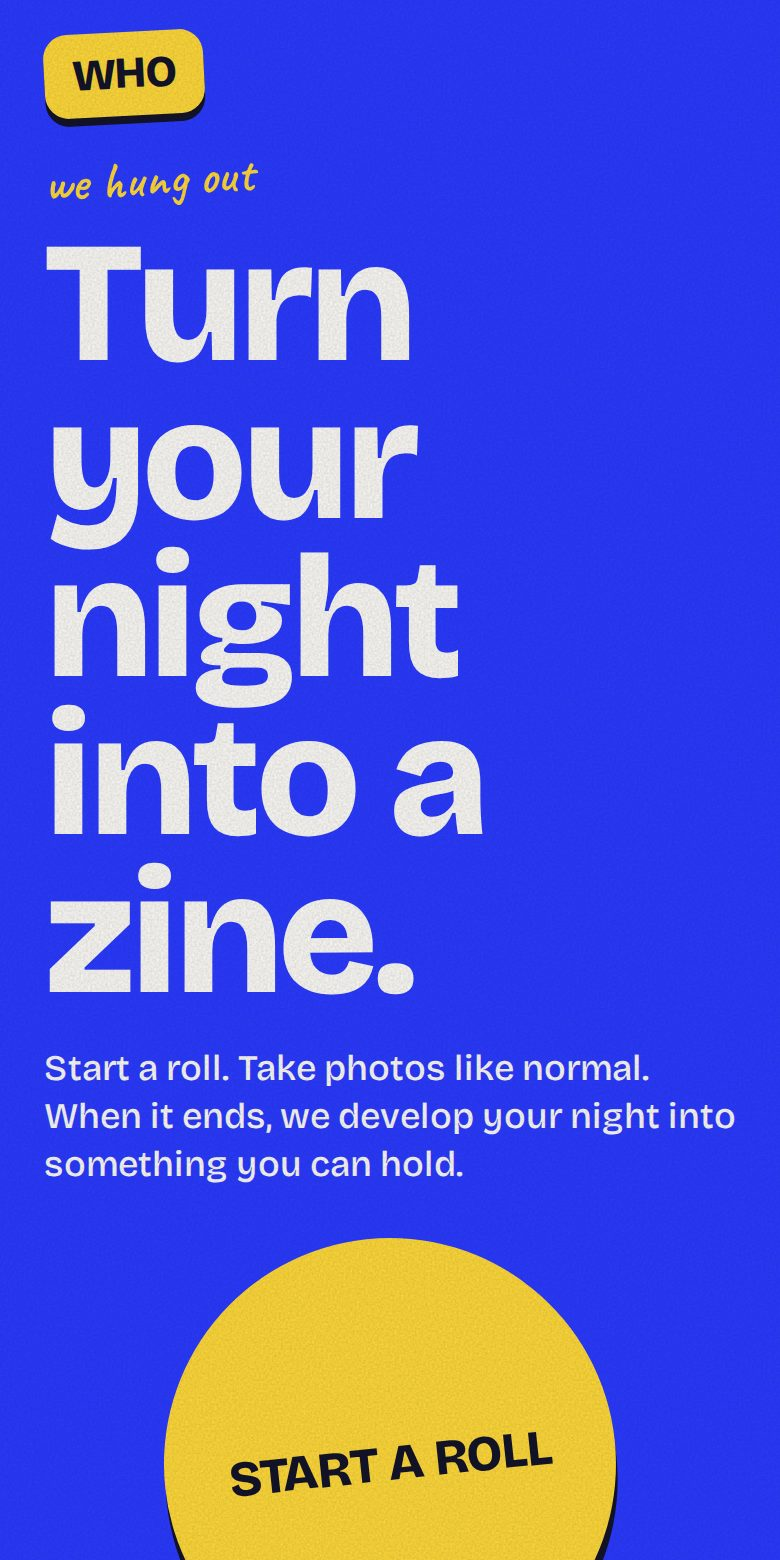
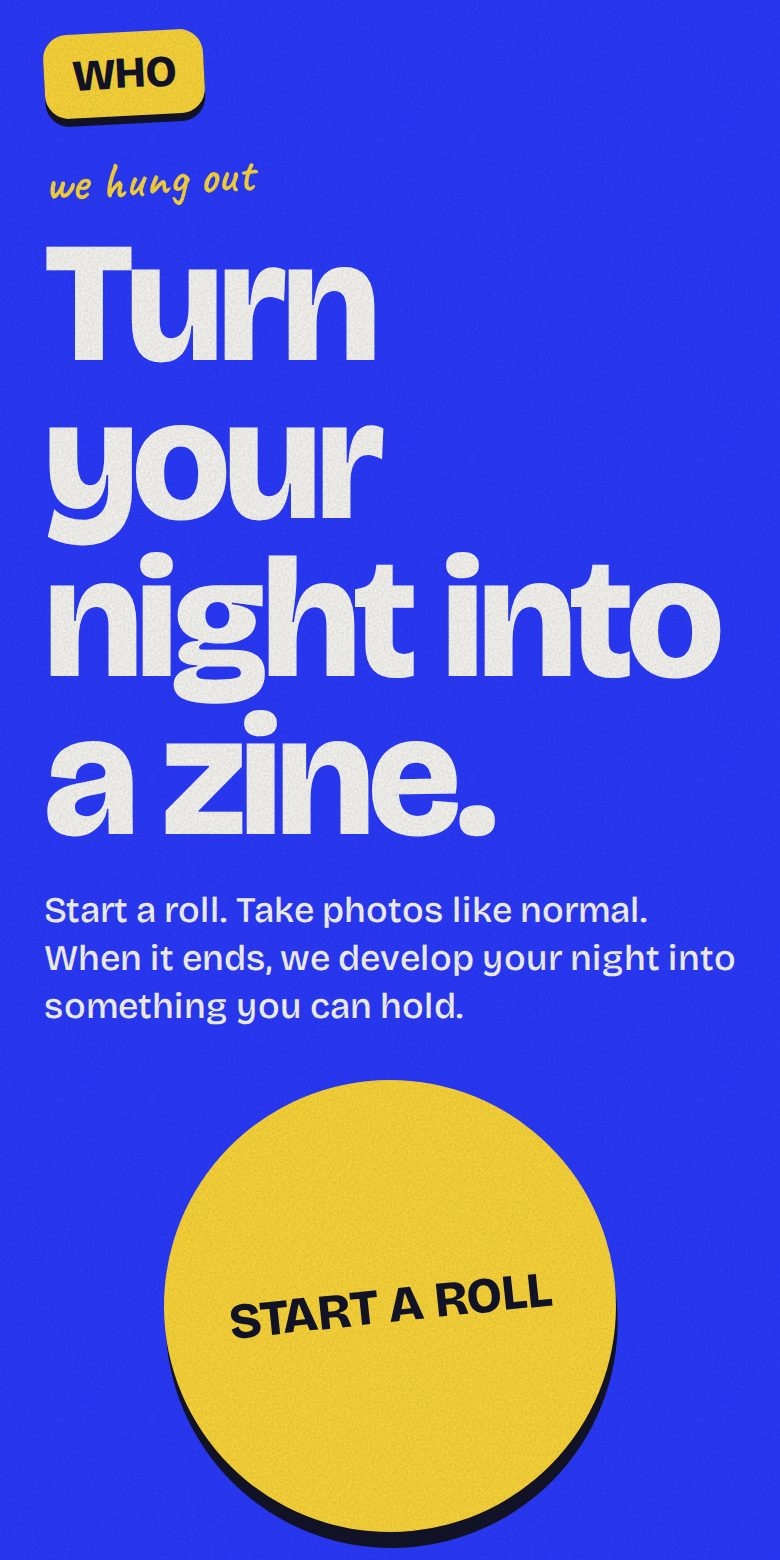
reversed some updates

Changed region(s): [[0.0615, 0.1538, 0.9538, 1.0]]

diff --git a/we-hung-out-zine-engine/web/index.html b/we-hung-out-zine-engine/web/index.html
@@ -19,10 +19,9 @@
 <meta property="og:image" content="og.png">
 <meta property="og:type" content="website">
 <meta name="twitter:card" content="summary_large_image">
-<link rel="preload" as="font" type="font/woff2" crossorigin href="fonts/bricolage-800.woff2">
+<link rel="preload" as="font" type="font/woff2" crossorigin href="fonts/bricolage-var.woff2">
 <style>
-@font-face{font-family:"Bricolage Grotesque";font-style:normal;font-weight:500;font-display:swap;src:url(fonts/bricolage-500.woff2) format("woff2")}
-@font-face{font-family:"Bricolage Grotesque";font-style:normal;font-weight:800;font-display:swap;src:url(fonts/bricolage-800.woff2) format("woff2")}
+@font-face{font-family:"Bricolage Grotesque";font-style:normal;font-weight:200 800;font-display:swap;src:url(fonts/bricolage-var.woff2) format("woff2")}
 @font-face{font-family:"Caveat";font-style:normal;font-weight:600;font-display:swap;src:url(fonts/caveat-600.woff2) format("woff2")}
 :root{
   --flash-blue:#2b3bff; --flash-yellow:#ffd93b; --print-white:#fbfaf6;
@@ -153,6 +152,8 @@ input[type=range]{width:100%;accent-color:var(--flash-yellow);margin:8px 0 0}
 .night span{display:block;font-size:16px;margin-top:2px}
 .night em{font-style:normal;font-family:var(--hand);font-size:22px;color:var(--flash-blue)}
 .credit a{color:inherit}
+.credit .legal{margin-top:16px;font-family:var(--display);font-weight:500;font-size:13px;letter-spacing:.02em}
+.credit .legal a{display:inline-block;padding:6px 14px;text-decoration:underline;text-underline-offset:3px}
 .msg{min-height:22px;text-align:center;font-size:15px;margin:10px 0 0}
 .msg a{color:var(--flash-yellow)}
 </style>
@@ -162,9 +163,9 @@ input[type=range]{width:100%;accent-color:var(--flash-yellow);margin:8px 0 0}
 <main id="app" aria-live="polite">
 <div class="brand">we hung out</div><h1 class="big">Turn your night into a zine.</h1>
 <p>Start a roll. Take photos like normal. When it ends, we develop your night into something you can hold.</p>
-<p><a href="about.html" style="color:inherit">Read the overview</a> &middot; <a href="privacy.html" style="color:inherit">Privacy</a></p>
+<p style="position:absolute;width:1px;height:1px;overflow:hidden;clip:rect(0 0 0 0);white-space:nowrap">Overview for people and AI tools: <a href="about.html">about.html</a>. Privacy: <a href="privacy.html">privacy.html</a>.</p>
 </main>
-<footer class="credit">made by Riann &middot; <a href="privacy.html" target="_blank" rel="noopener">Privacy</a> &middot; <a href="about.html" target="_blank" rel="noopener">About</a></footer>
+<footer class="credit">made by Riann<div class="legal"><a href="privacy.html" target="_blank" rel="noopener">Privacy</a></div></footer>
 <script>
 (function(){
   var app=document.getElementById('app');
@@ -304,7 +305,7 @@ input[type=range]{width:100%;accent-color:var(--flash-yellow);margin:8px 0 0}
     '<div class="spacer"></div><button class="btn shutter" id="go" style="width:min(58vw,230px);font-size:25px">START A ROLL</button>'+
     '<div style="height:22px"></div><button class="btn alt" id="quick" style="align-self:center">Make a zine now</button>'+
     '<p class="tiny" style="text-align:center;max-width:none">Any photos, any time. No roll needed.</p><div class="spacer"></div>';
-    document.getElementById('go').onclick=function(){S.mode='roll';S.editing=false;S.phase='start';render();};
+    document.getElementById('go').onclick=function(){S.mode='roll';S.editing=false;S.phase='setup';render();};
     document.getElementById('quick').onclick=function(){S.mode='quick';S.name='My zine';S.photos=[];S.seen={};S.sel=[];S.design=null;S.err=null;S.rejected=[];S.start=0;S.end=0;idbClear();S.phase='quick';save();render();};
   }
 
@@ -319,7 +320,7 @@ input[type=range]{width:100%;accent-color:var(--flash-yellow);margin:8px 0 0}
     '<div><label for="en">Ends</label><input type="time" id="en" value="'+hhmm(en)+'"></div></div>'+
     '<p class="tiny">Only photos taken between these two times are kept.</p><div class="spacer"></div>'+
     navBar(ed?'Back':'Back',ed?'Save':'Start roll');
-    document.getElementById('nb').onclick=function(){S.phase=ed?'roll':'start';render();};
+    document.getElementById('nb').onclick=function(){S.phase=ed?'roll':'home';render();};
     document.getElementById('nn').onclick=function(){
       var dv=(document.getElementById('dt').value||ymd(new Date())).split('-');
       var t=function(id){var v=document.getElementById(id).value.split(':');return new Date(+dv[0],+dv[1]-1,+dv[2],+v[0],+v[1],0,0).getTime();};
@@ -357,6 +358,7 @@ input[type=range]{width:100%;accent-color:var(--flash-yellow);margin:8px 0 0}
     html+='<div class="spacer"></div><input type="file" id="file" accept="image/*" multiple>';
     var canAdd=!S.busy&&(st==='active'||closed);
     html+='<button class="btn alt" id="add"'+(canAdd?'':' disabled')+'>'+(S.busy?'Adding... '+S.busy+' left':'Add photos')+'</button>';
+    if(!S.photos.length&&!S.busy)html+='<input type="file" id="ffile" accept="image/*" multiple><div style="text-align:center"><button class="link" id="findlink">Not sure of the times? Find my night from photos</button></div>';
     var canPick=closed&&S.photos.length&&!S.busy;
     html+=navBar('Back','Pick your 8',!canPick);
     if(!closed){
@@ -369,6 +371,8 @@ input[type=range]{width:100%;accent-color:var(--flash-yellow);margin:8px 0 0}
     document.getElementById('add').onclick=function(){file.click();};
     file.onchange=function(){addFiles(file.files,false);file.value='';};
     document.getElementById('edit').onclick=function(){S.editing=true;S.phase='setup';render();};
+    var fl=document.getElementById('findlink'),ff=document.getElementById('ffile');
+    if(fl&&ff){fl.onclick=function(){ff.click();};ff.onchange=function(){var arr=Array.prototype.slice.call(ff.files);ff.value='';findScan(arr);};}
     var fo=document.getElementById('force');
     if(fo)fo.onclick=function(){var files=S.rejected.map(function(r){return r.f;});S.rejected=[];addFiles(files,true);};
     document.getElementById('nb').onclick=function(){S.editing=true;S.phase='setup';render();};
@@ -515,18 +519,6 @@ input[type=range]{width:100%;accent-color:var(--flash-yellow);margin:8px 0 0}
     var part=(h>=20||h<5)?'night':h<12?'morning':h<17?'afternoon':'evening';
     return DAYS[new Date(first).getDay()]+' '+part;
   }
-  function startScreen(){
-    app.innerHTML='<div class="brand">new roll</div><h2 class="mid">How do you want to start?</h2>'+
-      '<input type="file" id="ffile" accept="image/*" multiple>'+
-      '<button class="opt y" id="findnight"><b>Find my night</b><span>Pick photos from your gallery. We read their dates, find the night, and set the times for you.</span></button>'+
-      '<button class="opt w" id="manual"><b>Set the times myself</b><span>Start a roll now and add photos as the night goes.</span></button>'+
-      '<div class="spacer"></div>'+navBar('Back',null,false);
-    var ff=document.getElementById('ffile');
-    document.getElementById('findnight').onclick=function(){ff.click();};
-    ff.onchange=function(){var fl=Array.prototype.slice.call(ff.files);ff.value='';findScan(fl);};
-    document.getElementById('manual').onclick=function(){S.mode='roll';S.editing=false;S.phase='setup';render();};
-    document.getElementById('nb').onclick=function(){S.phase='home';render();};
-  }
   function findScan(files){
     var arr=Array.prototype.slice.call(files).map(function(f){return {f:f,k:f.name+'|'+f.size+'|'+f.lastModified};});
     if(!arr.length)return;
@@ -561,8 +553,8 @@ input[type=range]{width:100%;accent-color:var(--flash-yellow);margin:8px 0 0}
       '<div style="text-align:center"><button class="link" id="manual2">Set the times myself instead</button></div>'+navBar('Back',null,false);
     app.innerHTML=h;
     Array.prototype.forEach.call(document.querySelectorAll('[data-s]'),function(b){b.onclick=function(){useSession(F.sessions[+b.getAttribute('data-s')]);};});
-    document.getElementById('manual2').onclick=function(){S.mode='roll';S.editing=false;S.phase='setup';render();};
-    document.getElementById('nb').onclick=function(){S.phase='start';render();};
+    document.getElementById('manual2').onclick=function(){S.editing=true;S.phase='setup';render();};
+    document.getElementById('nb').onclick=function(){S.phase='roll';render();};
   }
   function useSession(sess){
     var start=Math.floor(sess.first/60000)*60000-5*60000;
@@ -868,7 +860,7 @@ input[type=range]{width:100%;accent-color:var(--flash-yellow);margin:8px 0 0}
   function render(){
     var p=S.phase;
     if(p==='home')home();else if(p==='setup')setup();
-    else if(p==='roll')roll();else if(p==='quick')quick();else if(p==='start')startScreen();else if(p==='find')findScreen();
+    else if(p==='roll')roll();else if(p==='quick')quick();else if(p==='find')findScreen();
     else if(p==='pick')pick();else if(p==='developing')developing();
     else if(p==='ready'){if(!S.design||!window.ZineEngine||!validDesign()){S.phase=S.photos.length?'pick':(S.mode==='quick'?'quick':'roll');return render();}ready();}
     else if(p==='custom'){if(!S.design||!window.ZineEngine){S.phase='ready';return render();}custom();}

diff --git a/we-hung-out-zine-engine/web/about.html b/we-hung-out-zine-engine/web/about.html
@@ -38,15 +38,15 @@ li{margin:.35em 0}
 
 <h2>Two ways to start</h2>
 <ul>
-<li><strong>Start a roll.</strong> Either "Find my night" (pick photos from your gallery and the app reads their capture times, finds the night, and sets the roll's start and end for you) or "Set the times myself" (start a roll now and add photos as the night goes). Only photos taken during the roll count, plus up to 5 "final" photos from the 30 minutes after it ends.</li>
+<li><strong>Start a roll.</strong> Give it a name, a day and a start and end time, then add photos as the night goes (or afterward). If you're not sure of the times, the roll screen has a "Find my night from photos" link: pick a batch of photos and the app reads their capture times, finds the night, and sets the roll's start and end for you. Only photos taken during the roll count, plus up to 5 "final" photos from the 30 minutes after it ends.</li>
 <li><strong>Make a zine now.</strong> Any photos from any day, no time rules, up to 40 photos to choose from. Works like Dirty Little Zine, but with the roll ritual as the main attraction.</li>
 </ul>
 
 <h2>How it works, step by step</h2>
 <div class="shots">
 <figure><img src="shots/01-home.jpg" alt="Home screen: electric blue background, headline 'Turn your night into a zine', a big yellow START A ROLL button, and a Make a zine now button." width="390" height="780"><figcaption>1. Home: two doors, "Start a roll" and "Make a zine now".</figcaption></figure>
-<figure><img src="shots/02-start.jpg" alt="Start screen with two options: Find my night, and Set the times myself." width="390" height="780"><figcaption>2. Start a roll: "Find my night" or set the times yourself.</figcaption></figure>
-<figure><img src="shots/03-find-night.jpg" alt="The app lists two nights it found in the photos: Saturday night with 14 photos and Sunday afternoon with 4 photos." width="390" height="780"><figcaption>3. The app groups the photos into nights and asks which one to use.</figcaption></figure>
+<figure><img src="shots/02-setup.jpg" alt="Setup screen titled What is this: fields for the roll's name, day, start time and end time." width="390" height="780"><figcaption>2. Set up the roll: name, day, start and end time.</figcaption></figure>
+<figure><img src="shots/03-find-night.jpg" alt="The app lists two nights it found in the photos: Saturday night with 14 photos and Sunday afternoon with 4 photos." width="390" height="780"><figcaption>3. Not sure of the times? On the roll screen, "Find my night from photos" groups a batch of photos into nights and asks which one to use.</figcaption></figure>
 <figure><img src="shots/04-roll.jpg" alt="Roll screen showing a closed roll named Saturday night with 14 photos captured and a strip of polaroid-style thumbnails." width="390" height="780"><figcaption>4. The roll: photo count, window, polaroid strip. Back and Edit are always available.</figcaption></figure>
 <figure><img src="shots/05-pick-8.jpg" alt="Pick your 8 screen: a grid of photos with numbered yellow badges showing the chosen order." width="390" height="780"><figcaption>5. Pick up to 8 photos, in page order. Page 1 is the cover.</figcaption></figure>
 <figure><img src="shots/06-preview.jpg" alt="Preview of all 8 zine pages in a 4 by 2 grid, with Download as is and Customize buttons." width="390" height="780"><figcaption>6. After a short "developing" animation: a preview of all 8 pages. Download as is, or customize.</figcaption></figure>
@@ -89,7 +89,7 @@ li{margin:.35em 0}
 <ol>
 <li>Is the "roll" idea (a time window that becomes a zine) compelling, or would people rather just make a zine from any photos?</li>
 <li>Is the first screen clear about what the app does? What would you change about the wording?</li>
-<li>Does "Find my night" feel magical or confusing?</li>
+<li>Does "Find my night from photos" feel magical or confusing, and is it easy enough to find?</li>
 <li>Would you actually print and fold a zine? What would make that easier (templates, a print shop, a ready-made folded booklet)?</li>
 <li>Who is the best first audience, and where would they hear about it?</li>
 <li>What would make someone come back every week, not once?</li>

diff --git a/we-hung-out-zine-engine/web/sw.js b/we-hung-out-zine-engine/web/sw.js
@@ -1,9 +1,9 @@
 // Network-first service worker: the site always loads the newest version
 // when online (so updates show up in the installed app too), and falls
 // back to the last copy it saw when offline.
-var CACHE = 'who-v1';
+var CACHE = 'who-v2';
 var SHELL = ['./', 'index.html', 'manifest.webmanifest', 'icons/icon-192.png',
-  'fonts/bricolage-500.woff2', 'fonts/bricolage-800.woff2', 'fonts/caveat-600.woff2'];
+  'fonts/bricolage-var.woff2', 'fonts/caveat-600.woff2'];
 
 self.addEventListener('install', function (e) {
   e.waitUntil(caches.open(CACHE).then(function (c) { return c.addAll(SHELL); }).then(function () { return self.skipWaiting(); }));

diff --git a/we-hung-out-zine-engine/README.md b/we-hung-out-zine-engine/README.md
@@ -42,7 +42,7 @@ keep the signing key PWABuilder gives you somewhere safe. Icon source: a
 yellow shutter circle with "WHO" on the app's blue (`icons/maskable-512.png`
 keeps everything inside Android's circular safe zone).
 
-**Find my night.** On "Start a roll > Find my night" the person picks a
+**Find my night.** On the roll screen (shown only while the roll has no photos yet), the "Find my night from photos" link lets the person pick a
 batch of photos; capture times are read (EXIF, file date as a fallback),
 split into sessions at gaps over 2 hours, and the app proposes the biggest
 nights. Only the chosen night's photos are resized and kept. Photos are
